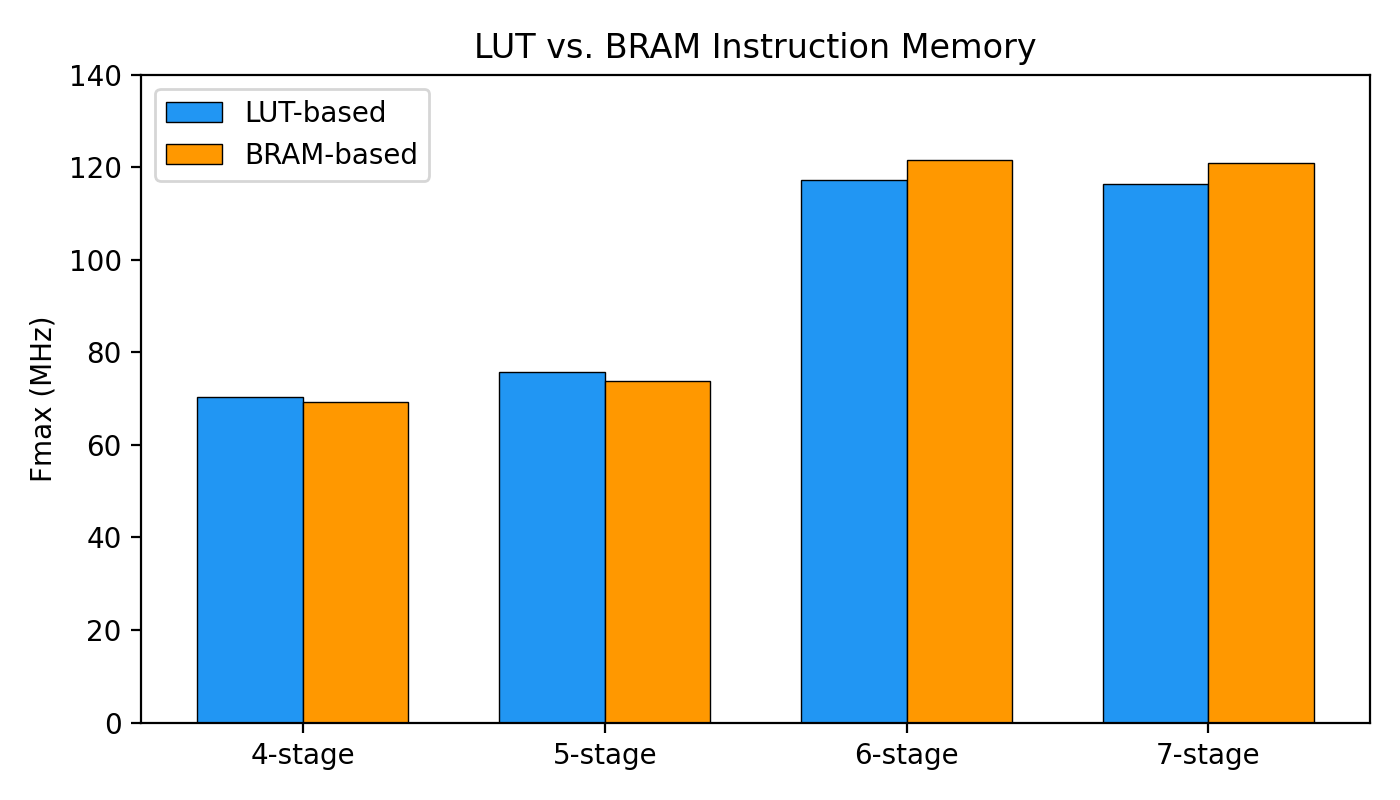
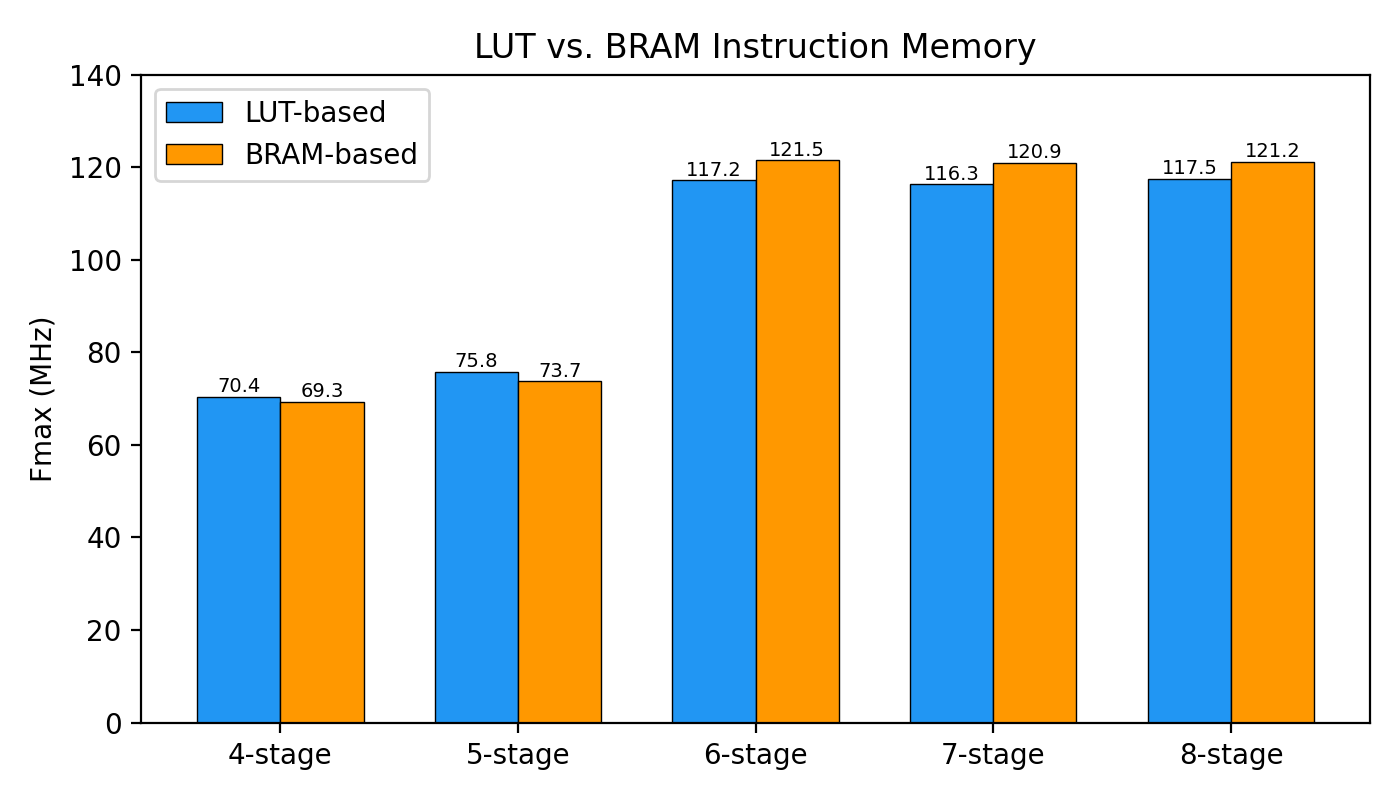
Add 8-stage BRAM data, update plot to all 5 depths

diff --git a/paper/main.tex b/paper/main.tex
@@ -838,12 +838,11 @@ The prevalence of history-based predictors in modern designs makes SGF broadly a
 \subsection{BRAM Instruction Memory Effect}
 \label{sec:bram}
 
-To test whether the 7-stage IF split becomes beneficial with synchronous memory, we synthesized BRAM variants of the 4-, 5-, 6-, and 7-stage pipelines using a registered-output instruction memory that infers Block RAM.
-The 8-stage BRAM variant failed to route in Vivado due to congestion from the combined MEM1/MEM2 split and BRAM read-port timing; this routing failure is itself informative, as it indicates that the 8-stage memory split creates placement pressure that the Artix-7 fabric cannot resolve with BRAM-based instruction memory.
-Fig.~\ref{fig:bram} shows the results for the four variants that completed successfully.
+To test whether the 7-stage IF split becomes beneficial with synchronous memory, we synthesized BRAM variants of all five pipelines using a registered-output instruction memory that infers Block RAM.
+Fig.~\ref{fig:bram} shows the results.
 
-With BRAM, the 4-stage achieves 69.3\,MHz, the 5-stage 73.7\,MHz, the 6-stage 121.5\,MHz, and the 7-stage 120.9\,MHz.
-The 7-stage design improves from 115.0\,MHz (LUT) to 120.9\,MHz (BRAM), nearly matching the 6-stage.
+With BRAM, the 4-stage achieves 69.3\,MHz, the 5-stage 73.7\,MHz, the 6-stage 121.5\,MHz, the 7-stage 120.9\,MHz, and the 8-stage 121.2\,MHz.
+The 7- and 8-stage designs both improve under BRAM (from 115.0 and 117.5\,MHz to 120.9 and 121.2\,MHz respectively), nearly matching the 6-stage.
 The 4-stage slightly decreases from 70.4 to 69.3\,MHz because the BRAM's registered output adds latency to the already-long execute-stage critical path.
 The IF1/IF2 boundary naturally absorbs the BRAM's 1-cycle read latency, and the 7-stage becomes competitive with the 6-stage on frequency.
 However, the CPI overhead of the deeper pipeline remains, so the 7-stage would need SGF and moderate-branch-density workloads to match the 6-stage's throughput even with BRAM-competitive frequency.